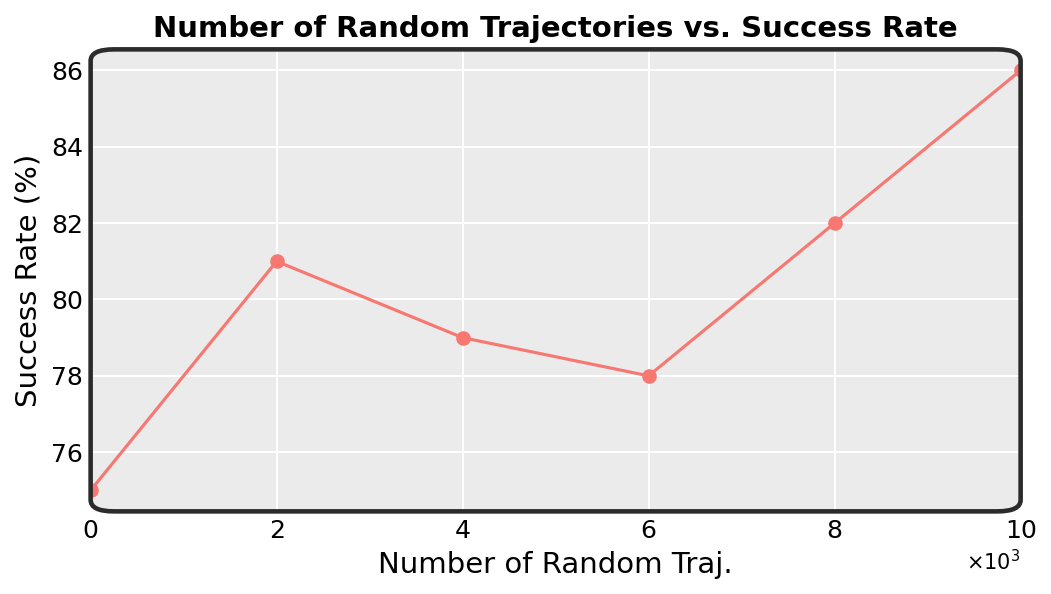
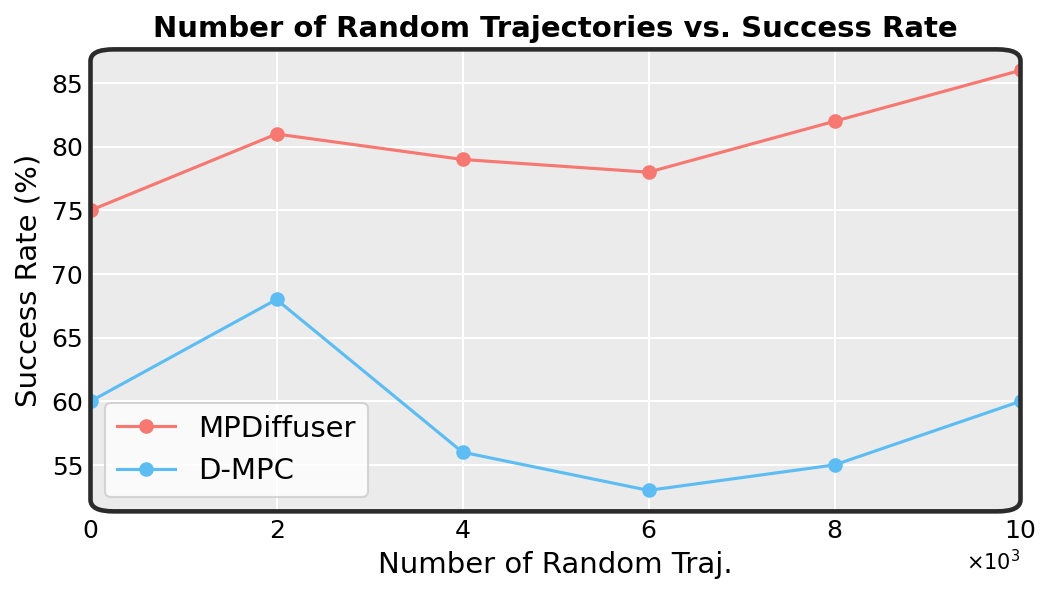
Added teaser figure

diff --git a/static/css/index.css b/static/css/index.css
@@ -389,6 +389,35 @@ a:hover {
   text-align: left;
 }
 
+.sampling-figure {
+  margin: 2rem auto 0;
+  max-width: 760px;
+  width: 100%;
+}
+
+.sampling-video {
+  background: #ffffff;
+  border: 1px solid #d8dedb;
+  border-radius: 8px;
+  display: block;
+  height: auto;
+  margin: 0 auto;
+  max-width: 100%;
+  object-fit: contain;
+  width: 100%;
+}
+
+.sampling-figure figcaption {
+  color: #334458;
+  font-family: 'Noto Sans', sans-serif;
+  font-size: 0.98rem;
+  font-weight: 500;
+  line-height: 1.55;
+  margin-left: auto;
+  margin-right: auto;
+  max-width: 40rem;
+}
+
 .real-world-grid {
   align-items: center;
   display: grid;
@@ -442,7 +471,8 @@ a:hover {
 .teaser-figure {
   margin-left: auto;
   margin-right: auto;
-  max-width: 510px;
+  max-width: 860px;
+  width: 100%;
 }
 
 .teaser-video {
@@ -454,7 +484,7 @@ a:hover {
   margin: 0 auto;
   max-width: 100%;
   object-fit: contain;
-  width: 510px;
+  width: 100%;
 }
 
 .robot-walking-gif {

diff --git a/index.html b/index.html
@@ -107,10 +107,8 @@
     <div class="container is-max-desktop">
       <figure class="paper-figure teaser-figure">
         <video class="teaser-video" autoplay muted loop playsinline preload="metadata">
-          <source src="./static/videos/AnimatedFig-MPDiffuser_cropped_h264.mp4" type="video/mp4">
-          <source src="./static/videos/AnimatedFig-MPDiffuser_cropped.mp4" type="video/mp4">
+          <source src="./static/videos/teaser.mov">
         </video>
-        <figcaption>MPDiffuser framework overview</figcaption>
       </figure>
     </div>
   </section>
@@ -138,6 +136,13 @@
           <figcaption>Car Navigation Example</figcaption>
         </figure>
       </div>
+      <figure class="paper-figure sampling-figure">
+        <video class="sampling-video" autoplay muted loop playsinline preload="metadata">
+          <source src="./static/videos/AnimatedFig-MPDiffuser_cropped_h264.mp4" type="video/mp4">
+          <source src="./static/videos/AnimatedFig-MPDiffuser_cropped.mp4" type="video/mp4">
+        </video>
+        <figcaption>During sampling, MPDiffuser alternates task-planning denoising with dynamics correction, refining trajectories into feasible rollouts before ranking.</figcaption>
+      </figure>
       <p class="section-copy method-copy">
         MPDiffuser couples a diffusion planner with a diffusion dynamics model and a lightweight ranker. The planner proposes task-aligned trajectories, the dynamics model repeatedly corrects feasibility during sampling, and the ranker selects trajectories that best satisfy the objective. The car navigation example illustrates the motivation: prior diffusion samplers can produce state sequences or actions that diverge when executed, while MPDiffuser generates trajectories that remain faithful to the system dynamics.
       </p>
@@ -168,8 +173,10 @@
                 <figcaption>HalfCheetah</figcaption>
               </figure>
               <figure class="paper-figure rollout-tile">
-                <img class="rollout-gif" src="./static/images/rollouts/d4rl-halfcheetah.gif" alt="Second HalfCheetah rollout view generated by MPDiffuser" loading="lazy">
-                <figcaption>HalfCheetah</figcaption>
+                <video class="rollout-gif" autoplay muted loop playsinline preload="auto" aria-label="FrankaKitchen rollout generated by MPDiffuser">
+                  <source src="./static/videos/kitchen-4x.mp4" type="video/mp4">
+                </video>
+                <figcaption>FrankaKitchen</figcaption>
               </figure>
             </div>
           </div>
@@ -227,7 +234,7 @@
             </figure>
             <figure class="paper-figure rollout-tile adaptation-tile">
               <img class="rollout-gif" src="./static/images/rollouts/adapt-walker2d-finetuned.gif" alt="Walker2d rollout after fine-tuning the dynamics model" loading="lazy">
-              <figcaption>Fine-tuned <small>Updating the dynamics component restores control.</small></figcaption>
+              <figcaption>Fine-tuned <small>Updating the dynamics component improves behavior under defect.</small></figcaption>
             </figure>
           </div>
           <p class="section-copy feature-copy">
@@ -270,7 +277,7 @@
         </figure>
       </div>
       <p class="section-copy real-world-copy">
-        MPDiffuser is deployed on a real quadrupedal robot to test whether diffusion-based predictive control can transfer from offline trajectory generation to physical locomotion. The experiment evaluates closed-loop execution under real dynamics, onboard computation, and the practical timing constraints of robot control.
+        MPDiffuser is deployed on a real quadrupedal robot to test whether diffusion-based predictive control can transfer from offline trajectory generation to physical locomotion. The experiment evaluates closed-loop execution under real dynamics, onboard computation, and the practical timing constraints.
       </p>
     </div>
   </section>